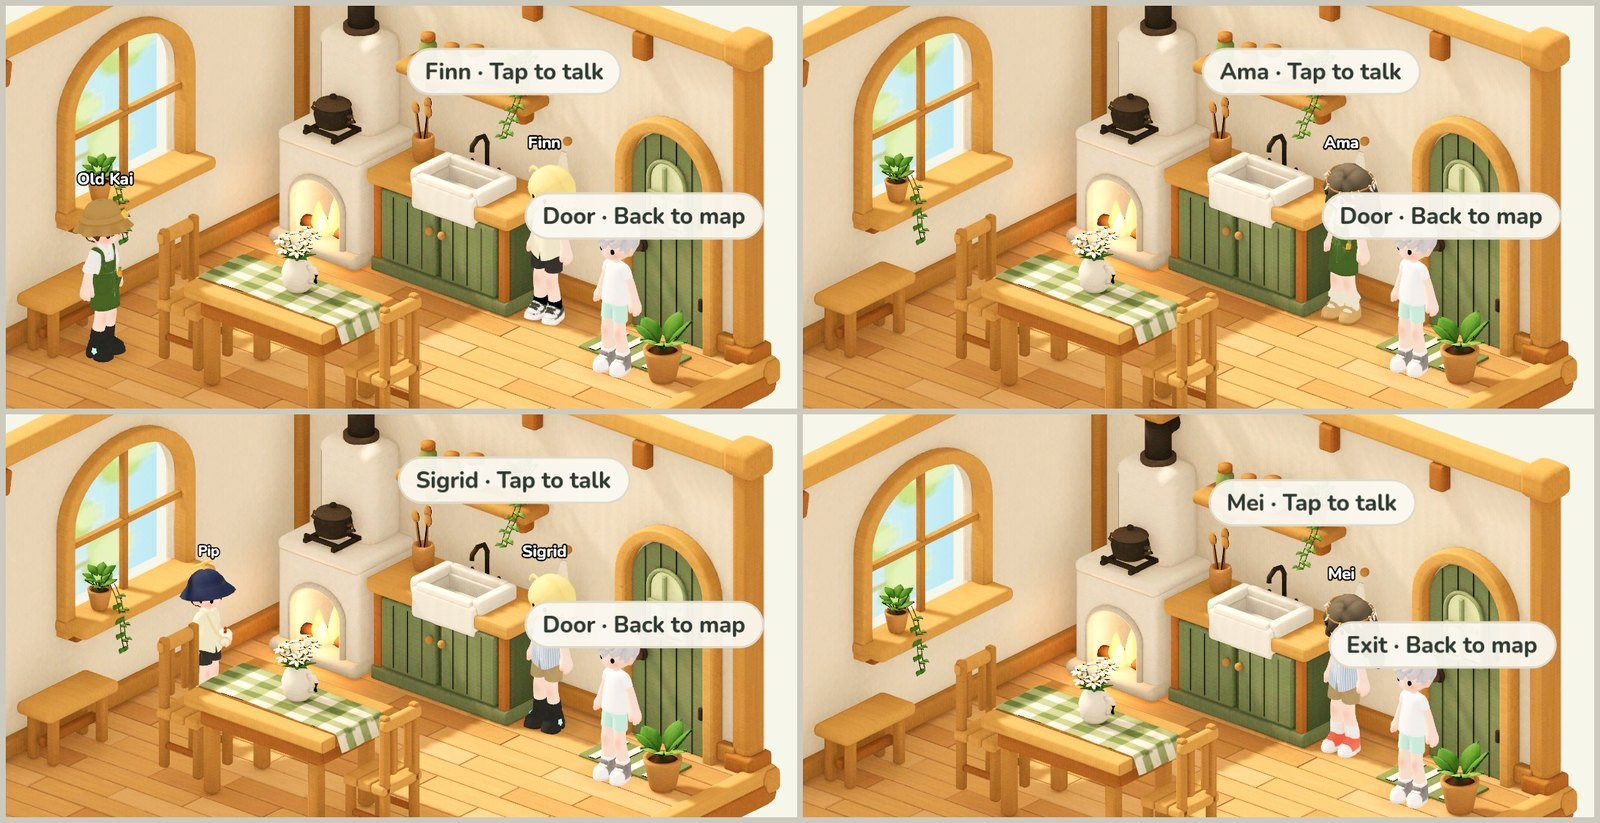
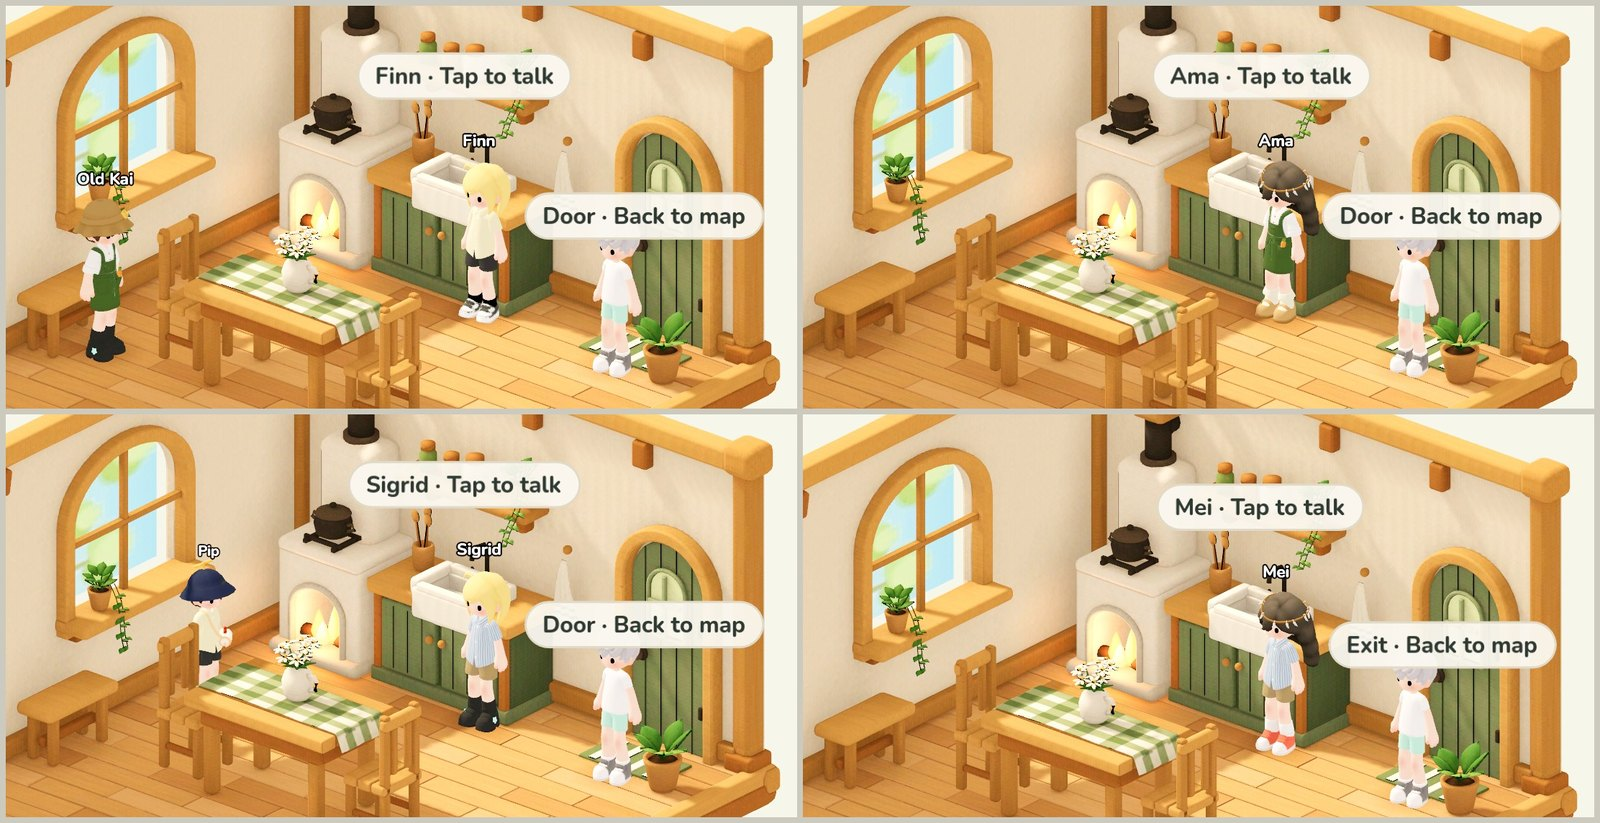
fix(p0): keepers stand left of the door card at the counter's middle; tapping them stops in front of them (PR #14 design review round 2)
npc_keeper moves to (0.2, -2.05) in all four outposts so the door's card no longer covers the keeper's head; a
stand_keeper point (the counter's stand point) keeps the walk from ending inside the keeper now that they stand
on open floor. Anchors check clean; a test taps each keeper.

diff --git a/docs/qa/p0-outpost-rooms-2026-10-08.md b/docs/qa/p0-outpost-rooms-2026-10-08.md
@@ -104,7 +104,9 @@ facing the room; standing behind a counter waits for the final scenes:
 ## Open
 
 - Keeper and door finger cards no longer overlap: each room has a `badge_keeper` point that lifts the
-  keeper's card clear above the door's (安其拉's design review of #14). Desktop render at the spawn:
+  keeper's card clear above the door's, and the keeper stands at the counter's middle, left of the door card,
+  with a `stand_keeper` point (= `stand_counter`) so tapping them stops in front of them (安其拉's design
+  review of #14, rounds 1–2). Desktop render at the spawn:
 
   ![Keeper and door cards apart](p0-outpost-rooms-2026-10-08/keeper-door-cards.jpg)
 - Seated pose not yet accepted by the art director; sitting while drinking is not done (see SGODOT-227).
